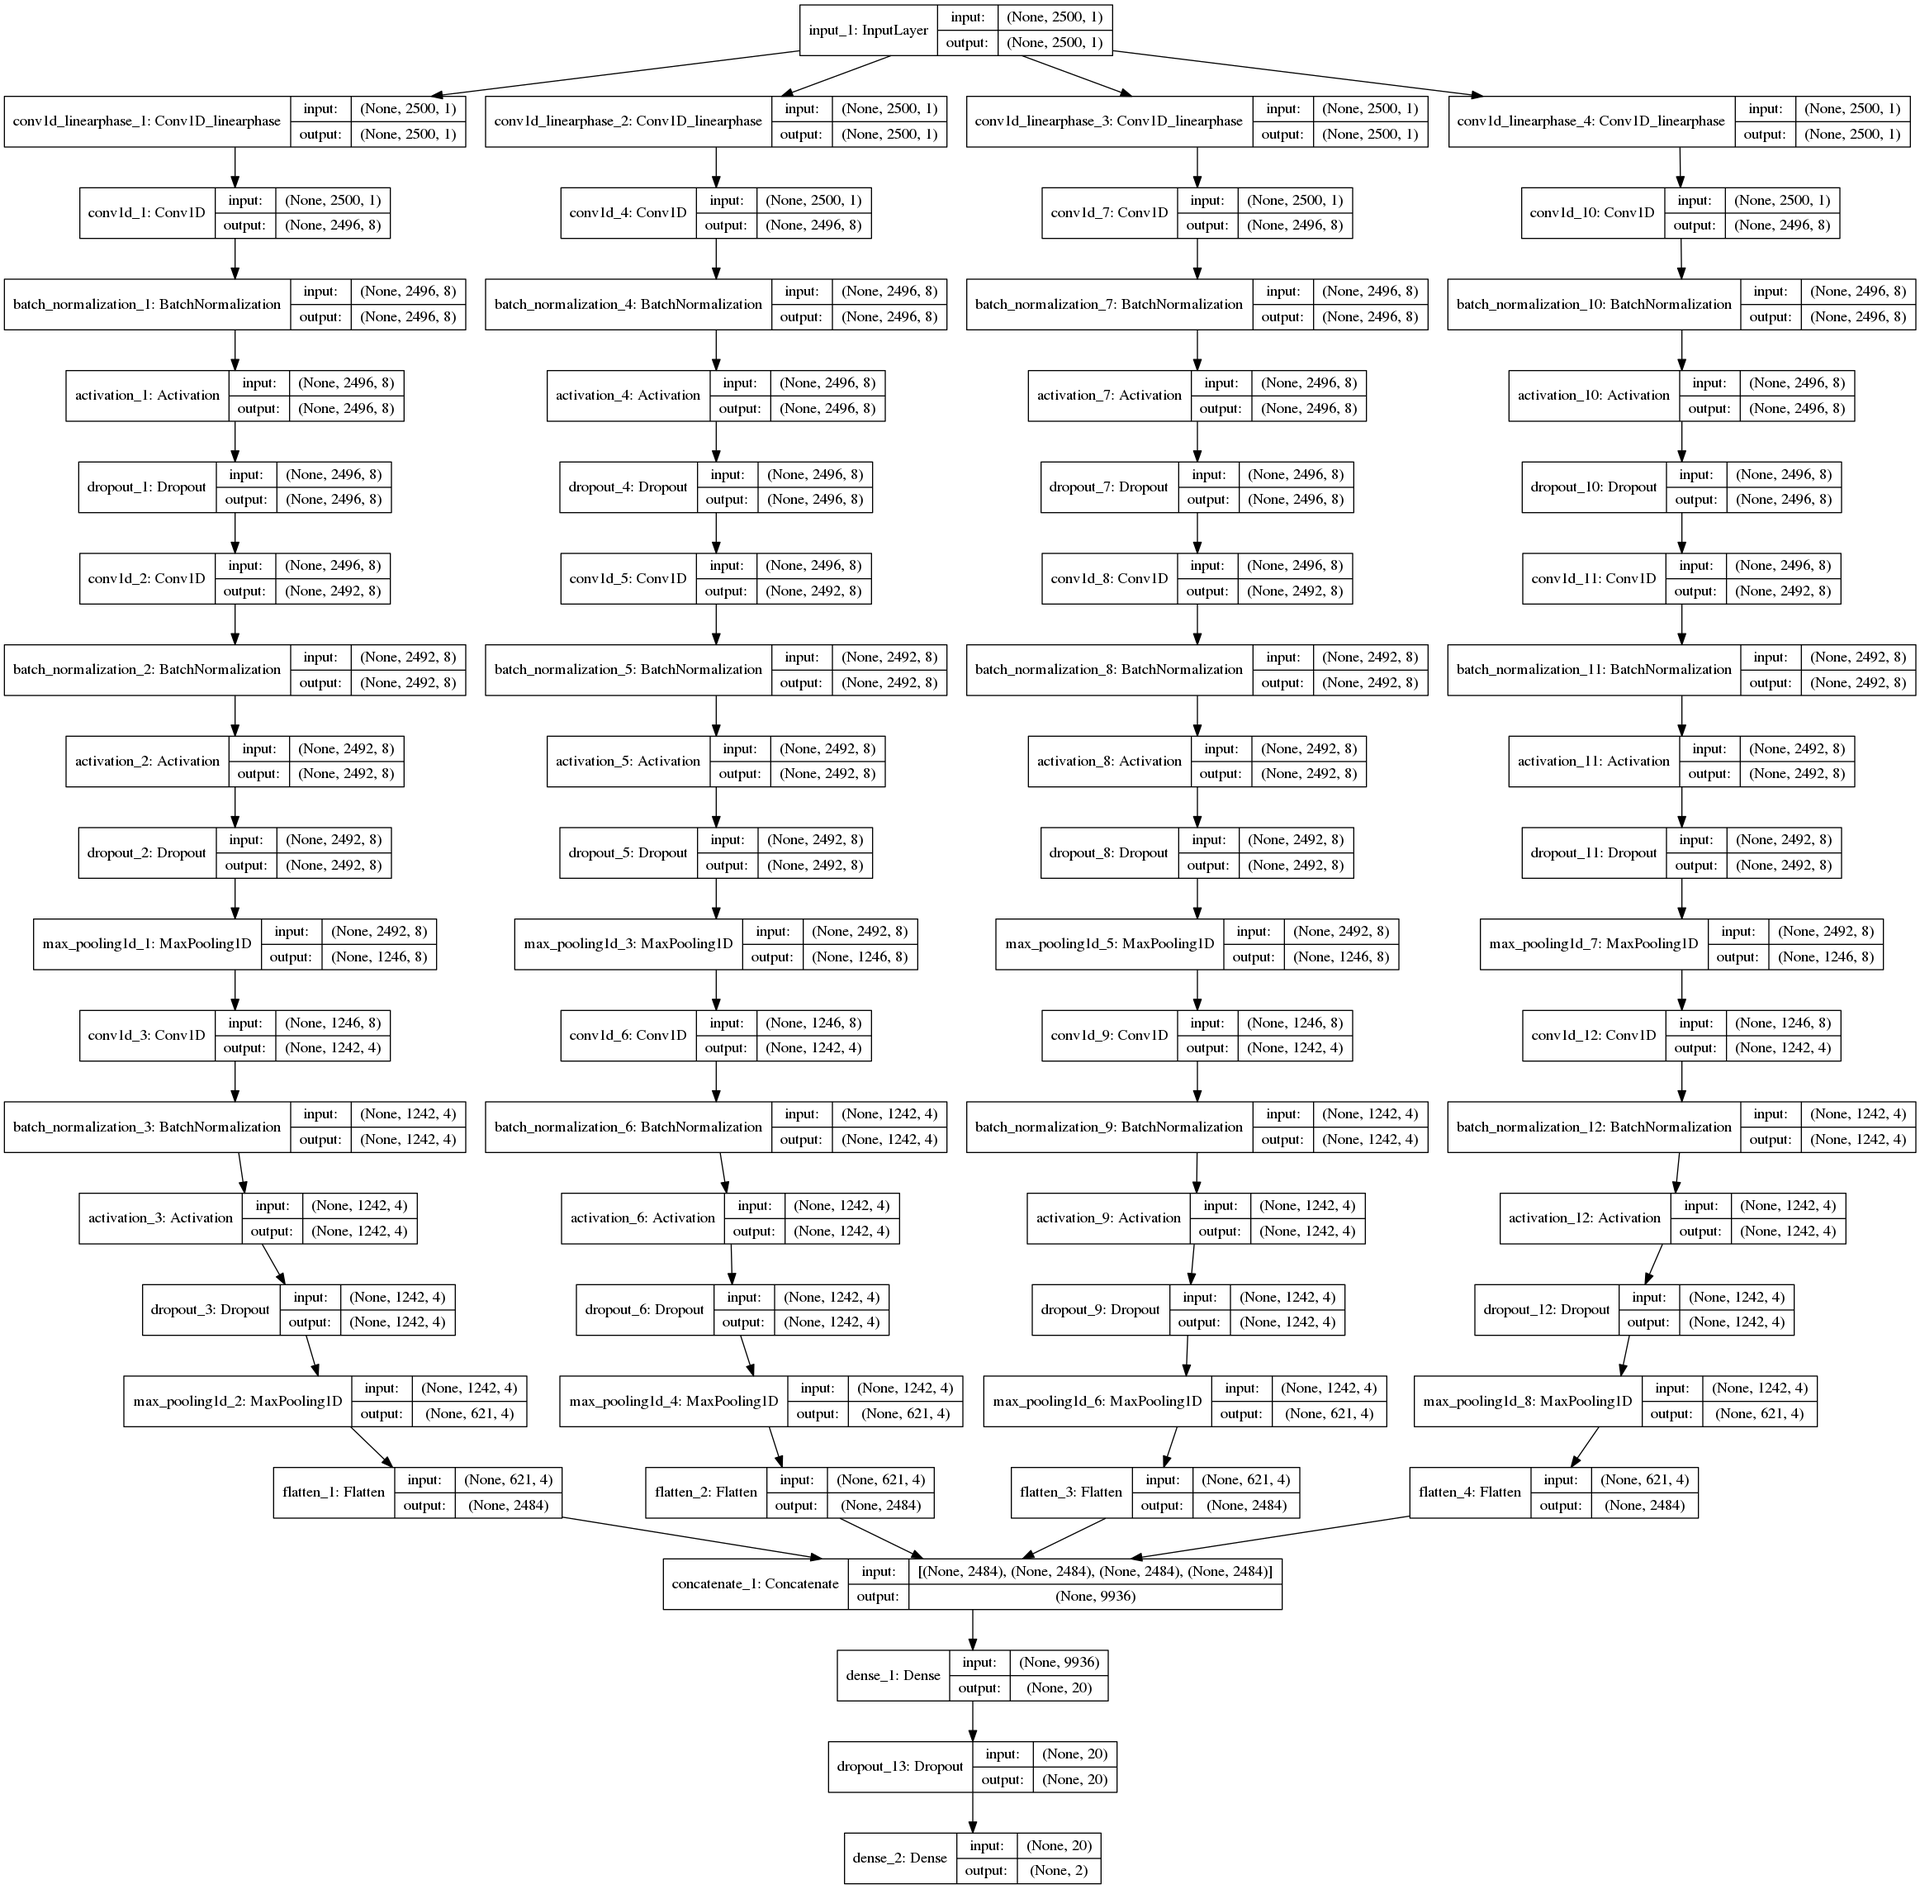
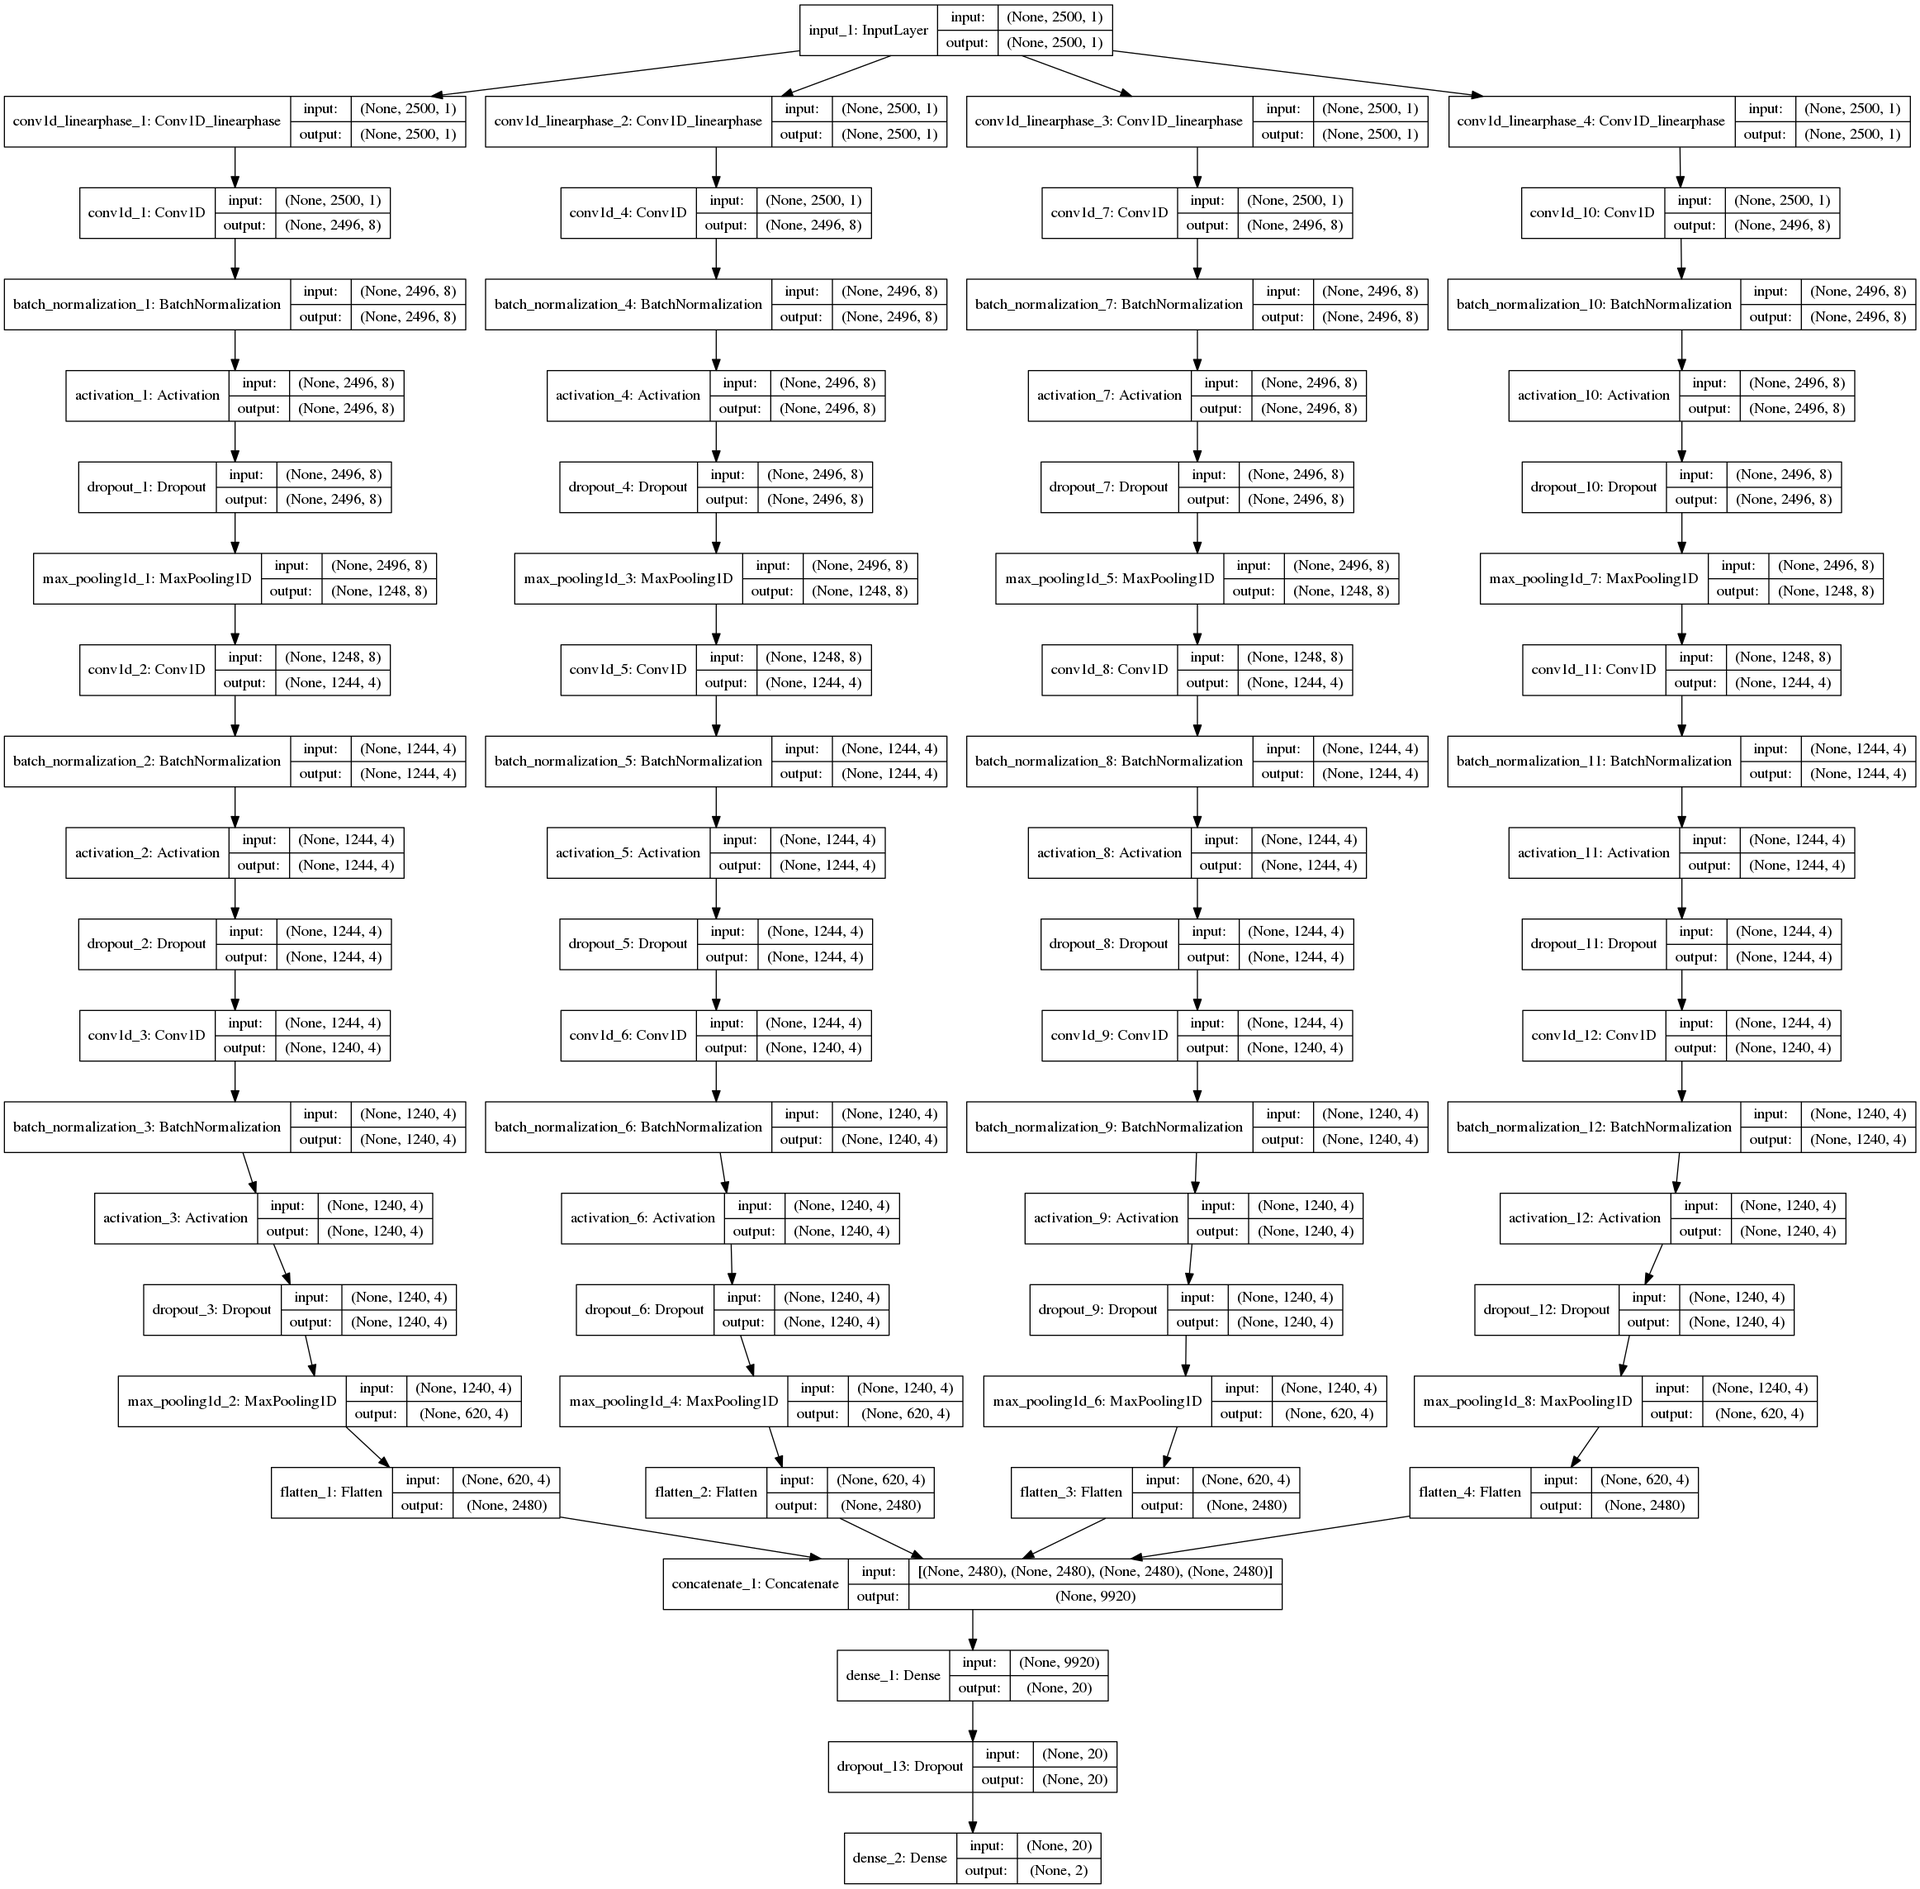
added conv layer in the end. No significant changes in the bias

diff --git a/codes/heartnet_v1.py b/codes/heartnet_v1.py
@@ -46,16 +46,6 @@ def branch(input_tensor,num_filt,kernel_size,random_seed,padding,bias,maxnorm,l2
     t = BatchNormalization(epsilon=eps, momentum=bn_momentum, axis=-1)(t)
     t = Activation(activation_function)(t)
     t = Dropout(rate=dropout_rate, seed=random_seed)(t)
-    t = Conv1D(num_filt1, kernel_size=kernel_size,
-                kernel_initializer=initializers.he_normal(seed=random_seed),
-                padding=padding,
-                use_bias=bias,
-                kernel_constraint=max_norm(maxnorm),
-                trainable=trainable,
-                kernel_regularizer=l2(l2_reg))(t)
-    t = BatchNormalization(epsilon=eps, momentum=bn_momentum, axis=-1)(t)
-    t = Activation(activation_function)(t)
-    t = Dropout(rate=dropout_rate, seed=random_seed)(t)
     t = MaxPooling1D(pool_size=subsam)(t)
     t = Conv1D(num_filt2, kernel_size=kernel_size,
                 kernel_initializer=initializers.he_normal(seed=random_seed),
@@ -64,6 +54,16 @@ def branch(input_tensor,num_filt,kernel_size,random_seed,padding,bias,maxnorm,l2
                 trainable=trainable,
                 kernel_constraint=max_norm(maxnorm),
                 kernel_regularizer=l2(l2_reg))(t)
+    t = BatchNormalization(epsilon=eps, momentum=bn_momentum, axis=-1)(t)
+    t = Activation(activation_function)(t)
+    t = Dropout(rate=dropout_rate, seed=random_seed)(t)
+    t = Conv1D(num_filt2, kernel_size=kernel_size,
+               kernel_initializer=initializers.he_normal(seed=random_seed),
+               padding=padding,
+               use_bias=bias,
+               trainable=trainable,
+               kernel_constraint=max_norm(maxnorm),
+               kernel_regularizer=l2(l2_reg))(t)
     t = BatchNormalization(epsilon=eps, momentum=bn_momentum, axis=-1)(t)
     t = Activation(activation_function)(t)
     t = Dropout(rate=dropout_rate, seed=random_seed)(t)
